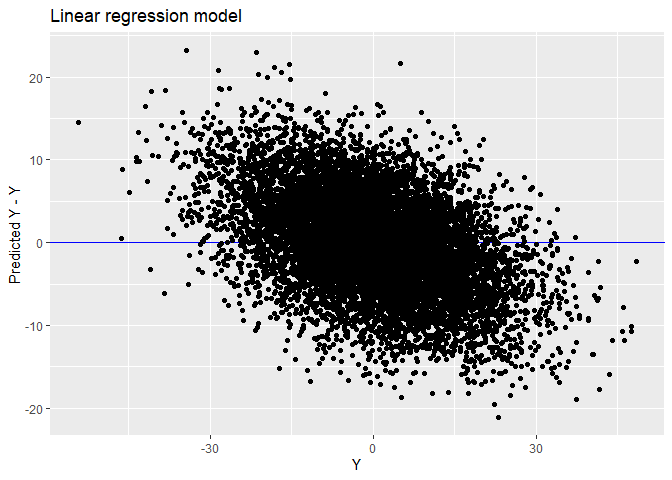
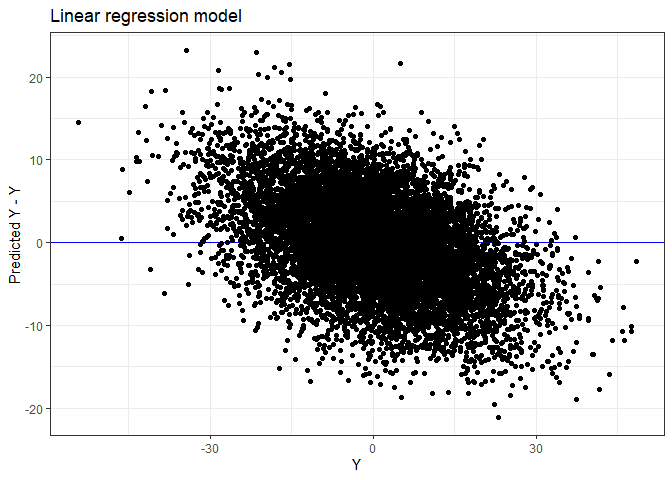
Updated explainer

diff --git a/Explainer.md b/Explainer.md
@@ -1,12 +1,119 @@
 Marije Sluiskes
 
-# Regression to the mean in biological age prediction
+# Regression to the sample’s mean age in biological age prediction
 
 ## What is regression to the mean?
 
+Regression to the mean is a statistical phenomenon that occurs whenever
+two variables of interest are imperfectly correlated. Let’s call these
+variables
+![X](https://latex.codecogs.com/png.image?%5Cdpi%7B110%7D&space;%5Cbg_white&space;X "X")
+and
+![Y](https://latex.codecogs.com/png.image?%5Cdpi%7B110%7D&space;%5Cbg_white&space;Y "Y").
+On average, when a measurement of
+![X](https://latex.codecogs.com/png.image?%5Cdpi%7B110%7D&space;%5Cbg_white&space;X "X")
+deviates from the mean of this variable, the corresponding measurement
+of
+![Y](https://latex.codecogs.com/png.image?%5Cdpi%7B110%7D&space;%5Cbg_white&space;Y "Y")
+will be closer to its mean. This occurs whenever the correlation
+coefficient between
+![X](https://latex.codecogs.com/png.image?%5Cdpi%7B110%7D&space;%5Cbg_white&space;X "X")
+and
+![Y](https://latex.codecogs.com/png.image?%5Cdpi%7B110%7D&space;%5Cbg_white&space;Y "Y")
+is smaller than one.
+
+It is easiest to understand this phenomenon by considering two extreme
+cases. Assume that
+![X](https://latex.codecogs.com/png.image?%5Cdpi%7B110%7D&space;%5Cbg_white&space;X "X")
+and
+![Y](https://latex.codecogs.com/png.image?%5Cdpi%7B110%7D&space;%5Cbg_white&space;Y "Y")
+are normally distributed with mean
+![\\mu](https://latex.codecogs.com/png.image?%5Cdpi%7B110%7D&space;%5Cbg_white&space;%5Cmu "\mu")
+and standard deviation
+![\\sigma](https://latex.codecogs.com/png.image?%5Cdpi%7B110%7D&space;%5Cbg_white&space;%5Csigma "\sigma").
+(This is just for simplicity of the subsequent formulas, but if not met,
+they can be adjusted without loss of generality.) Denote the correlation
+coefficient between
+![X](https://latex.codecogs.com/png.image?%5Cdpi%7B110%7D&space;%5Cbg_white&space;X "X")
+and
+![Y](https://latex.codecogs.com/png.image?%5Cdpi%7B110%7D&space;%5Cbg_white&space;Y "Y")
+by
+![r](https://latex.codecogs.com/png.image?%5Cdpi%7B110%7D&space;%5Cbg_white&space;r "r").
+
+Now, for a given subject
+![i](https://latex.codecogs.com/png.image?%5Cdpi%7B110%7D&space;%5Cbg_white&space;i "i"),
+draw measurement
+![x\_i](https://latex.codecogs.com/png.image?%5Cdpi%7B110%7D&space;%5Cbg_white&space;x_i "x_i")
+from
+![X](https://latex.codecogs.com/png.image?%5Cdpi%7B110%7D&space;%5Cbg_white&space;X "X").
+The expected value for measurement
+![y\_i](https://latex.codecogs.com/png.image?%5Cdpi%7B110%7D&space;%5Cbg_white&space;y_i "y_i")
+is then
+![\\mu + r(x\_i - \\mu)](https://latex.codecogs.com/png.image?%5Cdpi%7B110%7D&space;%5Cbg_white&space;%5Cmu%20%2B%20r%28x_i%20-%20%5Cmu%29 "\mu + r(x_i - \mu)").
+If there is a perfect correlation between
+![X](https://latex.codecogs.com/png.image?%5Cdpi%7B110%7D&space;%5Cbg_white&space;X "X")
+and
+![Y](https://latex.codecogs.com/png.image?%5Cdpi%7B110%7D&space;%5Cbg_white&space;Y "Y")
+(i.e. ![r = 1](https://latex.codecogs.com/png.image?%5Cdpi%7B110%7D&space;%5Cbg_white&space;r%20%3D%201 "r = 1")),
+![E\[y\_i\] = x\_i](https://latex.codecogs.com/png.image?%5Cdpi%7B110%7D&space;%5Cbg_white&space;E%5By_i%5D%20%3D%20x_i "E[y_i] = x_i").
+If they are completely independent,
+![E\[y\_i\] = \\mu](https://latex.codecogs.com/png.image?%5Cdpi%7B110%7D&space;%5Cbg_white&space;E%5By_i%5D%20%3D%20%5Cmu "E[y_i] = \mu").
+
+In reality, for any
+![X](https://latex.codecogs.com/png.image?%5Cdpi%7B110%7D&space;%5Cbg_white&space;X "X")
+and
+![Y](https://latex.codecogs.com/png.image?%5Cdpi%7B110%7D&space;%5Cbg_white&space;Y "Y"),
+![r](https://latex.codecogs.com/png.image?%5Cdpi%7B110%7D&space;%5Cbg_white&space;r "r")
+will often be somewhere in between these two extreme cases. Hence, if
+you select subjects with extreme measurements of
+![X](https://latex.codecogs.com/png.image?%5Cdpi%7B110%7D&space;%5Cbg_white&space;X "X"),
+the average of the measurements for
+![Y](https://latex.codecogs.com/png.image?%5Cdpi%7B110%7D&space;%5Cbg_white&space;Y "Y")
+for these subjects will be closer to the mean.
+
 ## Why is it relevant in the context of biological age prediction?
 
-## Example with simulated data
+A commonly used approach to predict biological age is to perform
+multiple linear regression on cross-sectional data: chronological age
+![C](https://latex.codecogs.com/png.image?%5Cdpi%7B110%7D&space;%5Cbg_white&space;C "C")
+is taken as the outcome variable and regressed on a set of markers
+![X](https://latex.codecogs.com/png.image?%5Cdpi%7B110%7D&space;%5Cbg_white&space;X "X")
+that were measured at the same point in time as chronological age (i.e.,
+a cross-sectional set-up). Then the model’s predicted chronological age
+is considered to be informative of one’s biological aging
+![B](https://latex.codecogs.com/png.image?%5Cdpi%7B110%7D&space;%5Cbg_white&space;B "B"):
+![\\hat{B} = \\hat{C} = \\beta\_0 + \\sum\_{i = 1}^{m}\\beta\_ix\_i](https://latex.codecogs.com/png.image?%5Cdpi%7B110%7D&space;%5Cbg_white&space;%5Chat%7BB%7D%20%3D%20%5Chat%7BC%7D%20%3D%20%5Cbeta_0%20%2B%20%5Csum_%7Bi%20%3D%201%7D%5E%7Bm%7D%5Cbeta_ix_i "\hat{B} = \hat{C} = \beta_0 + \sum_{i = 1}^{m}\beta_ix_i"),
+where
+![m](https://latex.codecogs.com/png.image?%5Cdpi%7B110%7D&space;%5Cbg_white&space;m "m")
+denotes the number of included markers. In other words, the residuals
+(the differences between
+![C](https://latex.codecogs.com/png.image?%5Cdpi%7B110%7D&space;%5Cbg_white&space;C "C")
+and
+![\\hat{C}](https://latex.codecogs.com/png.image?%5Cdpi%7B110%7D&space;%5Cbg_white&space;%5Chat%7BC%7D "\hat{C}"))
+are interpreted as meaningful quantities in their own right.
+
+The correlation between chronological age and the markers will not be
+perfect. There is a (significant) source of random error. Hence, there
+will be regression to the mean: predicted values for
+![C](https://latex.codecogs.com/png.image?%5Cdpi%7B110%7D&space;%5Cbg_white&space;C "C")
+will tend to regress toward the sample’s mean chronological age.
+*Individuals younger than this sample mean age will obtain predicted
+ages that are on average too high, and individuals older than this mean
+age will receive predicted ages that are too low.* This phenomenon has
+been recognized to be an issue in the context of cross-sectional
+biological age prediction for decades: see e.g. [Dubina et
+al. (1984)](https://www.sciencedirect.com/science/article/pii/0531556584900160)
+or [Hochschild
+(1989)](https://www.sciencedirect.com/science/article/pii/0531556589900028).
+
+Though this phenomenon has primarily been discussed in the context of
+(multiple) linear regression, it also holds for other types of
+regression models using cross-sectional data to predict
+chronological/biological age. In the example below, both a linear
+regression model and a boosted regression model are used to illustrate
+this.
+
+## Illustration with simulated data
 
 ``` r
 library(gbm)
@@ -29,18 +136,41 @@ Fit two models on the training data: a simple linear regression model
 ``` r
 set.seed(18)
 
-n=10000
-X<-rnorm(n,0,6)
-eps<-rnorm(n,0,6)
-beta=2
+n = 10000
+X <- rnorm(n,0,6)
+eps <- rnorm(n,0,6)
+beta = 2
 
-Y<-beta*X+eps
+Y <- beta*X + eps
 
-# fit LR and GB model
-lr_fit <- lm(Y~X)
+# fit models
+lr_fit <- lm(Y ~ X)
 gbm_fit = gbm(Y ~ X, distribution = "gaussian", n.trees = 100)
 
-# fitted values
+summary(lr_fit)
+```
+
+    ## 
+    ## Call:
+    ## lm(formula = Y ~ X)
+    ## 
+    ## Residuals:
+    ##      Min       1Q   Median       3Q      Max 
+    ## -23.1606  -4.0610   0.0163   4.0387  21.0570 
+    ## 
+    ## Coefficients:
+    ##             Estimate Std. Error t value Pr(>|t|)    
+    ## (Intercept) -0.04766    0.06006  -0.793    0.428    
+    ## X            1.97351    0.01006 196.219   <2e-16 ***
+    ## ---
+    ## Signif. codes:  0 '***' 0.001 '**' 0.01 '*' 0.05 '.' 0.1 ' ' 1
+    ## 
+    ## Residual standard error: 6.006 on 9998 degrees of freedom
+    ## Multiple R-squared:  0.7939, Adjusted R-squared:  0.7938 
+    ## F-statistic: 3.85e+04 on 1 and 9998 DF,  p-value: < 2.2e-16
+
+``` r
+# get fitted values
 lr_fitted <- fitted(lr_fit)
 gbm_fitted<-predict.gbm(gbm_fit,as.data.frame(X))
 ```
@@ -49,9 +179,8 @@ Now plot the residuals
 (![\\hat{Y} - Y](https://latex.codecogs.com/png.image?%5Cdpi%7B110%7D&space;%5Cbg_white&space;%5Chat%7BY%7D%20-%20Y "\hat{Y} - Y"))
 against
 ![Y](https://latex.codecogs.com/png.image?%5Cdpi%7B110%7D&space;%5Cbg_white&space;Y "Y").
-For both models there is already a downward sloping pattern visible:
-this is regression to the mean. People with higher chronological ages
-(higher
+For both models there is a downward sloping pattern visible: people with
+higher chronological ages (higher
 ![Y](https://latex.codecogs.com/png.image?%5Cdpi%7B110%7D&space;%5Cbg_white&space;Y "Y"))
 on average have lower predicted chronological ages (lower
 ![\\hat{Y}](https://latex.codecogs.com/png.image?%5Cdpi%7B110%7D&space;%5Cbg_white&space;%5Chat%7BY%7D "\hat{Y}")).
@@ -67,7 +196,8 @@ df_fitted <- data.frame(Y, lr_fitted, gbm_fitted)
 ggplot(aes(x = Y, y = lr_fitted - Y), data = df_fitted) +
   geom_abline(intercept = 0, slope = 0, col = "blue") + 
   geom_point() + 
-  labs(title = "Linear regression model", y = "Predicted Y - Y")
+  labs(title = "Linear regression model", y = "Predicted Y - Y") +
+  theme_bw()
 ```
 
 ![](Explainer_files/figure-gfm/unnamed-chunk-3-1.png)<!-- -->
@@ -76,7 +206,8 @@ ggplot(aes(x = Y, y = lr_fitted - Y), data = df_fitted) +
 ggplot(aes(x = Y, y = gbm_fitted - Y), data = df_fitted) +
   geom_abline(intercept = 0, slope = 0, col = "blue") + 
   geom_point() + 
-  labs(title = "Generalized boosting regression model", y = "Predicted Y - Y")
+  labs(title = "Generalized boosting regression model", y = "Predicted Y - Y") +
+  theme_bw()
 ```
 
 ![](Explainer_files/figure-gfm/unnamed-chunk-3-2.png)<!-- -->
@@ -85,8 +216,8 @@ Consider now a test set, sampled from the same population. Split the
 test set in two groups, based on their value for
 ![Y](https://latex.codecogs.com/png.image?%5Cdpi%7B110%7D&space;%5Cbg_white&space;Y "Y").
 This would be similar to comparing groups from the general population
-defined by their chronological age (e.g., long-lived individuals with
-middle-aged individuals).
+defined by their chronological age (e.g., old / long-lived individuals
+with young individuals from the same population).
 
 Use the models fitted on the training data to obtain predictions for
 ![Y](https://latex.codecogs.com/png.image?%5Cdpi%7B110%7D&space;%5Cbg_white&space;Y "Y")
@@ -112,15 +243,15 @@ x.val0<-x.val[y.val<0]
 y.pred.val1<-sapply(1:length(x.val1),function(i)coef(lr_fit)[1]+coef(lr_fit)[2]*x.val1[i])
 y.pred.val0<-sapply(1:length(x.val0),function(i)coef(lr_fit)[1]+coef(lr_fit)[2]*x.val0[i])
 
-mlr.res1<-y.val1-y.pred.val1
-mlr.res0<-y.val0-y.pred.val0
+mlr.res1<-y.pred.val1-y.val1
+mlr.res0<-y.pred.val0-y.val0
 
 # GBM
 y.predmatrix.val1 <-predict.gbm(gbm_fit, data.frame(X = x.val1))
 y.predmatrix.val0 <-predict.gbm(gbm_fit, data.frame(X = x.val0))
 
-gbm.res1<-y.val1-y.predmatrix.val1
-gbm.res0<-y.val0-y.predmatrix.val0
+gbm.res1<-y.predmatrix.val1-y.val1
+gbm.res0<-y.predmatrix.val0-y.val0
 ```
 
 Now compare the values of the residuals between these two groups.
@@ -157,19 +288,23 @@ t.test(mlr.res1,mlr.res0)
     ##  Welch Two Sample t-test
     ## 
     ## data:  mlr.res1 and mlr.res0
-    ## t = 40.654, df = 9953.6, p-value < 2.2e-16
+    ## t = -40.654, df = 9953.6, p-value < 2.2e-16
     ## alternative hypothesis: true difference in means is not equal to 0
     ## 95 percent confidence interval:
-    ##  4.309839 4.746503
+    ##  -4.746503 -4.309839
     ## sample estimates:
     ## mean of x mean of y 
-    ##  2.400986 -2.127185
+    ## -2.400986  2.127185
 
 ``` r
 ggplot(aes(x = mlr.res0), data = dftest_res0) +
-  geom_density() +
-  geom_density(aes(x = mlr.res1), data = dftest_res1, col = "blue") + 
-  labs(title = "Linear regression model", x = "residual")
+  geom_density(aes(col = "darkgreen")) +
+  geom_density(aes(x = mlr.res1, col = "purple"), data = dftest_res1) + 
+  labs(title = "Linear regression model", x = "residual") +
+  theme_bw() +
+  scale_colour_identity(guide = "legend", 
+                        name = "legend",
+                        labels = c("young group", "old group"))
 ```
 
 ![](Explainer_files/figure-gfm/unnamed-chunk-6-1.png)<!-- -->
@@ -182,19 +317,23 @@ t.test(gbm.res1,gbm.res0)
     ##  Welch Two Sample t-test
     ## 
     ## data:  gbm.res1 and gbm.res0
-    ## t = 42.36, df = 9952.4, p-value < 2.2e-16
+    ## t = -42.36, df = 9952.4, p-value < 2.2e-16
     ## alternative hypothesis: true difference in means is not equal to 0
     ## 95 percent confidence interval:
-    ##  4.489235 4.924866
+    ##  -4.924866 -4.489235
     ## sample estimates:
     ## mean of x mean of y 
-    ##  2.525503 -2.181548
+    ## -2.525503  2.181548
 
 ``` r
 ggplot(aes(x = gbm.res0), data = dftest_res0) +
-  geom_density() +
-  geom_density(aes(x = gbm.res1), data = dftest_res1, col = "blue") + 
-  labs(title = "Generalized boosting regression model", x = "residual") 
+  geom_density(aes(col = "darkgreen")) +
+  geom_density(aes(x = mlr.res1, col = "purple"), data = dftest_res1) + 
+  labs(title = "Generalized boosting regression model", x = "residual") +
+  theme_bw() +
+  scale_colour_identity(guide = "legend", 
+                        name = "legend",
+                        labels = c("young group", "old group"))
 ```
 
 ![](Explainer_files/figure-gfm/unnamed-chunk-7-1.png)<!-- -->
